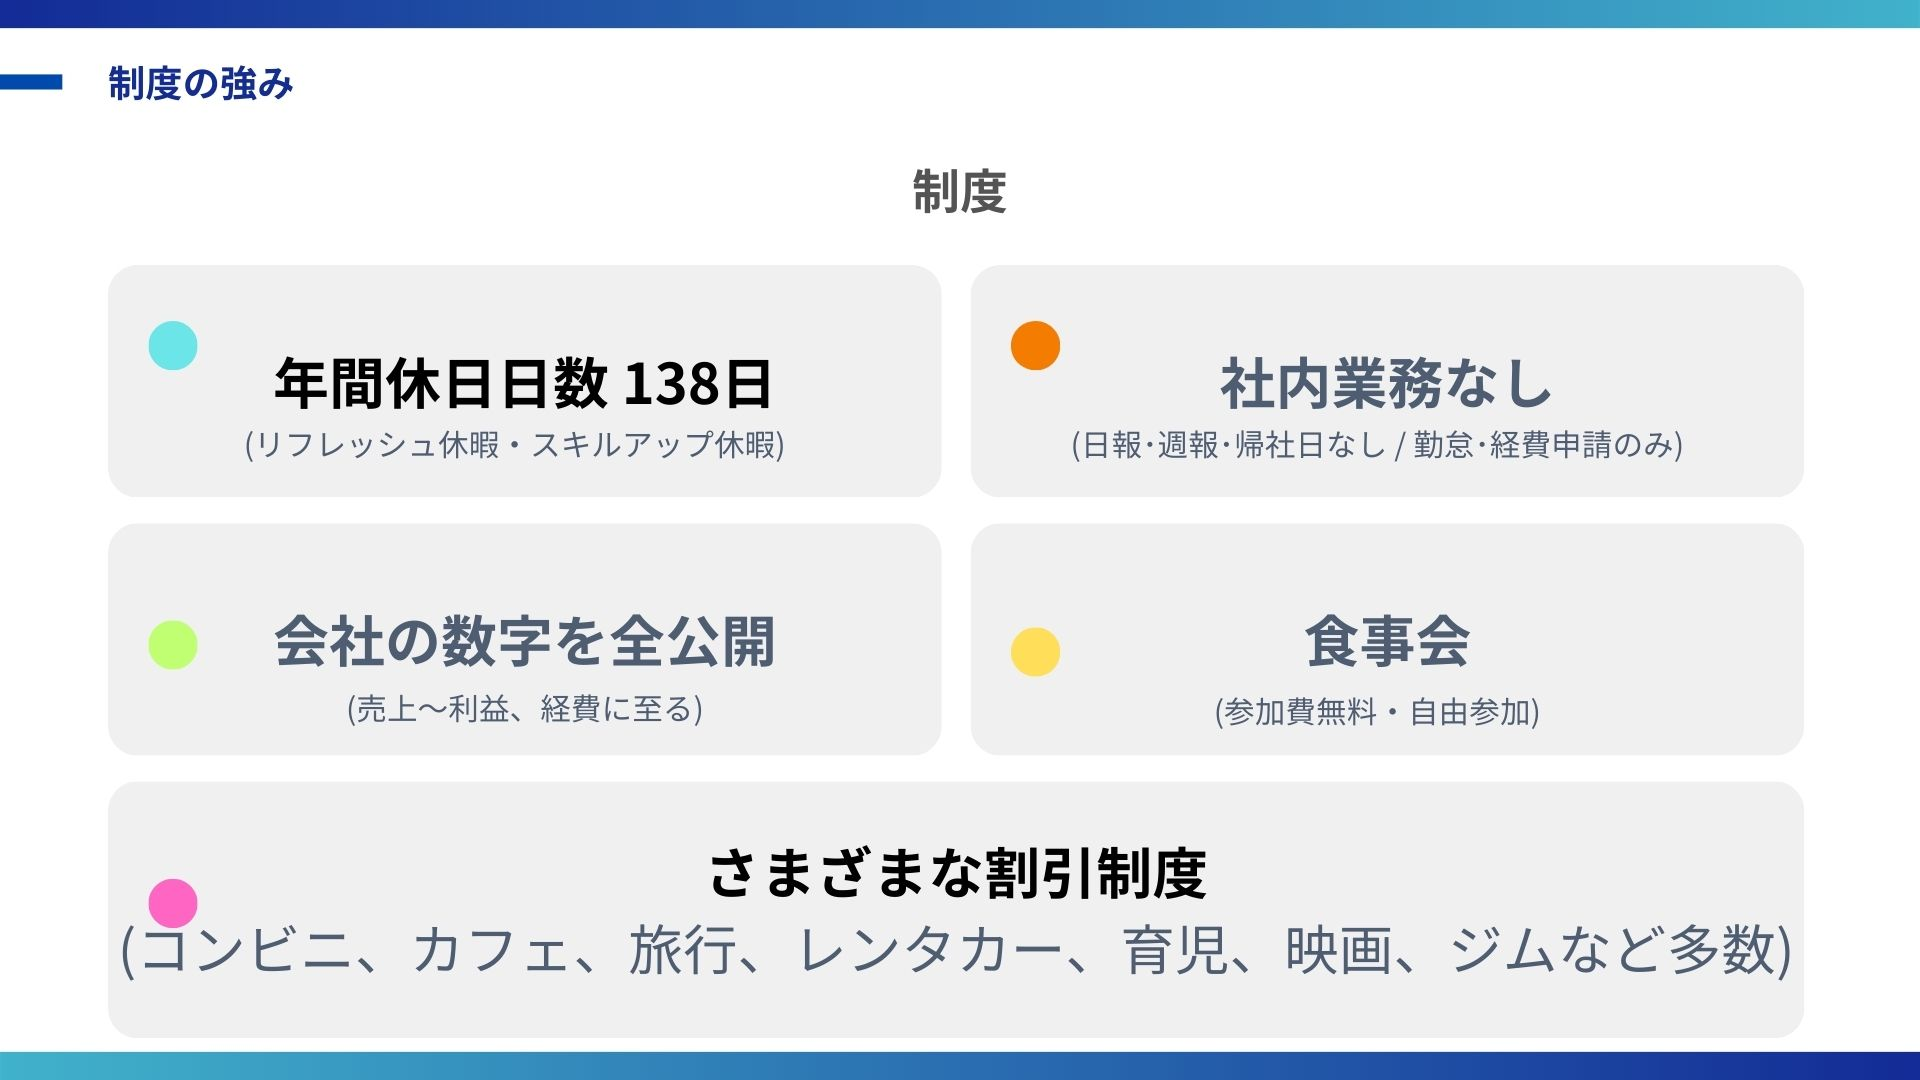
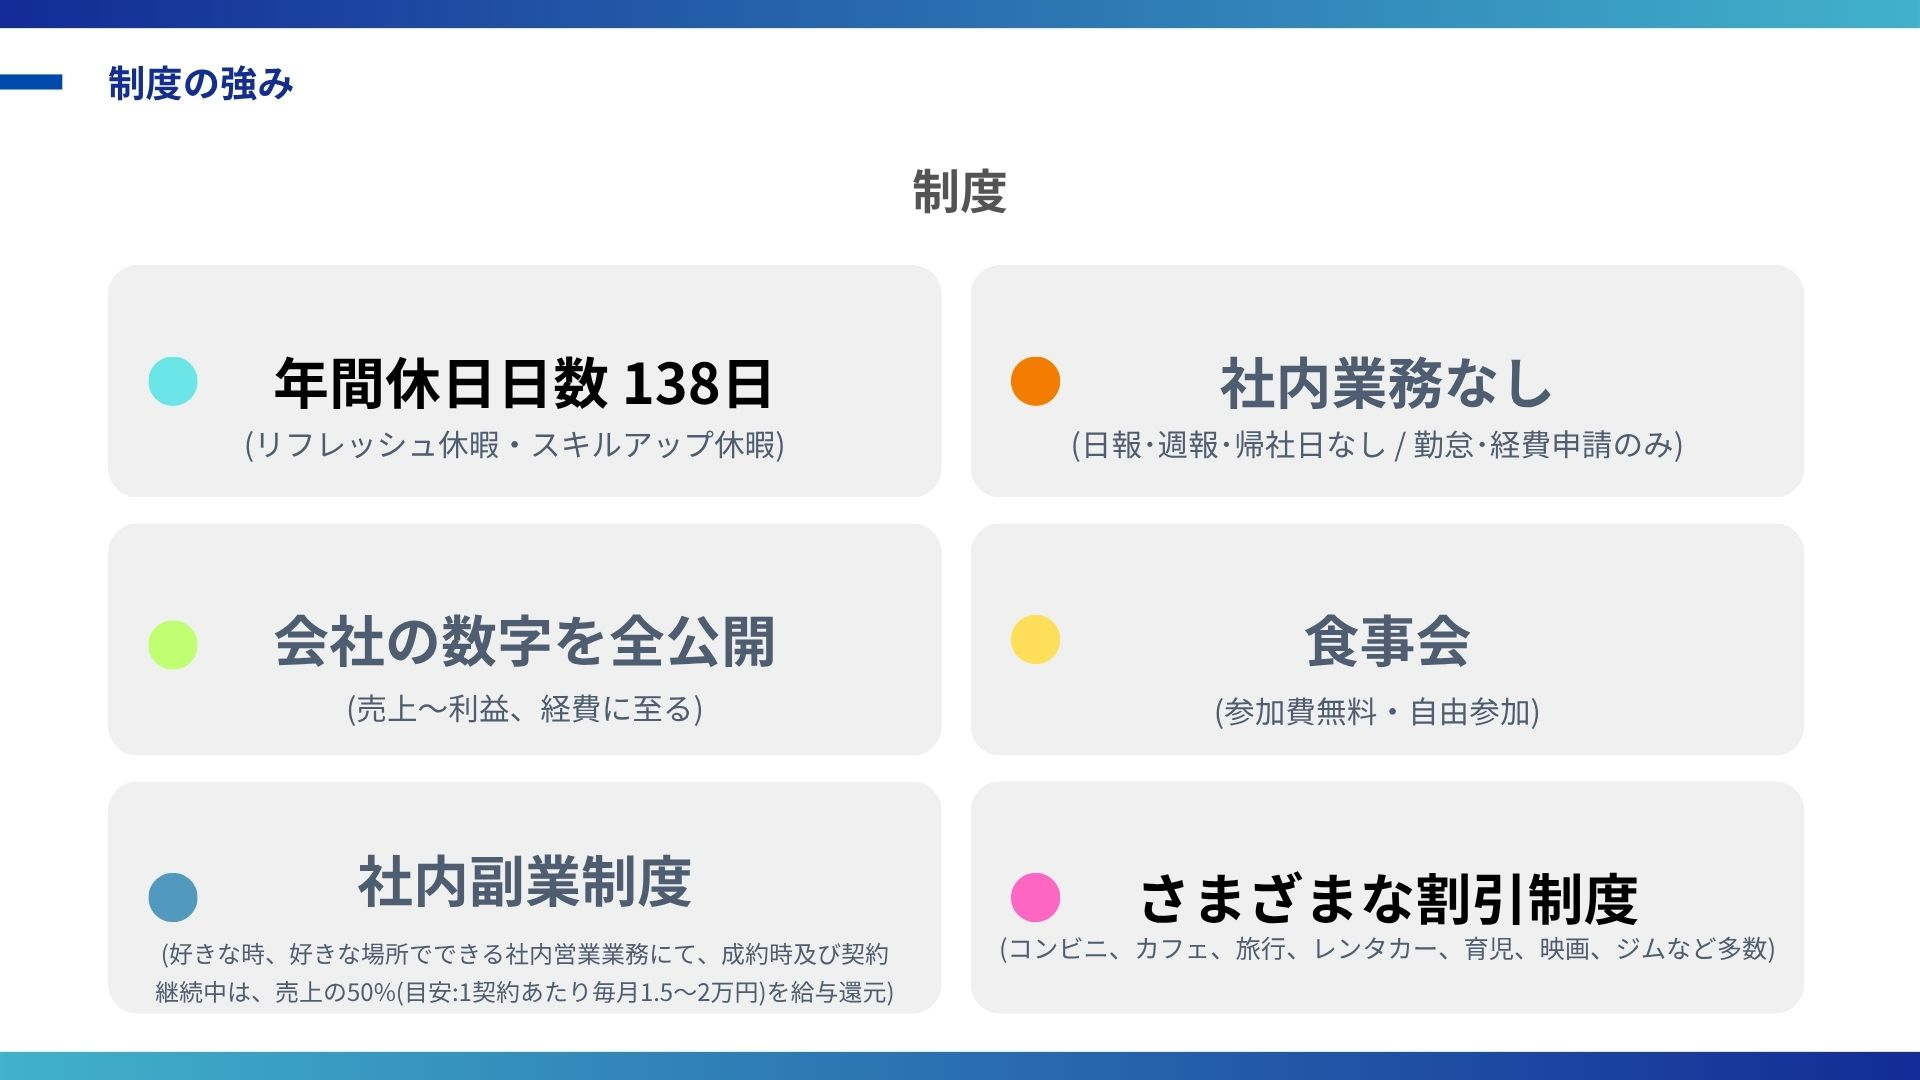
社内副業制度・社員数変更・設立→事業開始に変更

diff --git a/index.html b/index.html
@@ -197,6 +197,7 @@
 								        <a href="recruit.html#benefit" class="detail-link">詳細</a>
 								    </div>
 							    </li>
+							    <!-- 
 							    <li class="benefit-card-item">
 							    	<p class="benefit-card-item-sub">制度</p>
 							        <p class="benefit-card-item-title">手厚い現場フォロー体制</p>
@@ -205,7 +206,18 @@
 								        <p>スキルシートや面談対策、参画後のフォロー、キャリア設計等、手厚いフォロー体制を構築しております</p>
 								        <a href="recruit.html#benefit" class="detail-link">詳細</a>
 								    </div>
+							    </li> -->
+							    
+							    <li class="benefit-card-item">
+							    	<p class="benefit-card-item-sub">制度</p>
+							        <p class="benefit-card-item-title">社内副業制度</p>
+							        <button class="accordion-toggle"><span class="accordion-icon">▼</span></button>
+								    <div class="accordion-content">
+								        <p>いつでもどこでも好きなタイミングでお取り組みいただける社内営業業務を副業することができ、成約および契約継続中は売上の50%を報酬還元します</p>
+								        <a href="recruit.html#benefit" class="detail-link">詳細</a>
+								    </div>
 							    </li>
+							    
 							    <li class="benefit-card-item">
 							    	<p class="benefit-card-item-sub">制度</p>
 							        <p class="benefit-card-item-title">年間休日日数 138日<span class="sub">(リフレッシュ休暇、スキルアップ休暇)</span></p>

diff --git a/recruit.html b/recruit.html
@@ -343,6 +343,14 @@
 					        </div>
 					        
 					        <div class="benefit-item">
+							    <div class="benefit-item-inner">
+							        <h3 class="benefit-title">社内副業制度</h3>
+							        <p class="benefit-subtitle">Side Business</p>
+							        <p class="benefit-description">社内営業業務を副業することができ、成約時及び契約継続中は、売上の50%(目安:1契約あたり毎月1.5〜2万円)を給与還元。作業はいつでもどこでも好きなタイミングでお取り組みいただけます。</p>
+							    </div>
+							</div>
+					        
+					        <div class="benefit-item">
 					            <div class="benefit-item-inner">
 					                <h3 class="benefit-title">社内イベント</h3>
 					                <p class="benefit-subtitle">Events</p>

diff --git a/company.html b/company.html
@@ -205,8 +205,8 @@
                             <td class="ceo-name"></td>
                         </tr>
                         <tr>
-                            <th>設立</th>
-                            <td>2025年3月</td>
+                            <th>事業開始</th>
+                            <td>2025年5月</td>
                         </tr>
                         <tr>
                             <th>資本金</th>
@@ -218,7 +218,7 @@
                         </tr>
                         <tr>
                             <th>社員数</th>
-                            <td>5名</td>
+                            <td>6名</td>
                         </tr>
                         <tr>
                             <th>事業内容</th>

diff --git a/css/recruit.css b/css/recruit.css
@@ -581,6 +581,7 @@ main {
 	.benefit-item:nth-child(4) { animation-delay: 0.4s; }
 	.benefit-item:nth-child(5) { animation-delay: 0.5s; }
 	.benefit-item:nth-child(6) { animation-delay: 0.6s; }
+	.benefit-item:nth-child(6) { animation-delay: 0.7s; }
 
 	@keyframes fadeInUp {
 	    0% {
